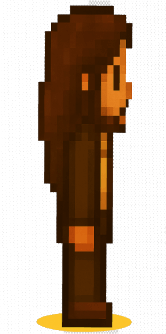
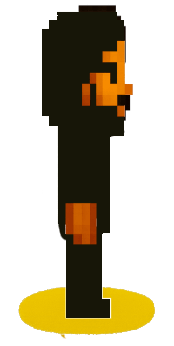
adjust chars

diff --git a/src/utils.js b/src/utils.js
@@ -38,10 +38,10 @@ export const availableCharacters = [
   { 
       id: 'show-2', 
       name: 'Show-2',
-      frontImage: 'assets/characters/persona-6-front.png',
-      backImage: 'assets/characters/persona-6-back.png',
-      leftImage: 'assets/characters/persona-6-left.png', // Usando perfil como lateral
-      rightImage: 'assets/characters/persona-6-right.png', 
+      frontImage: 'assets/characters/persona-5-front.png',
+      backImage: 'assets/characters/persona-5-back.png',
+      leftImage: 'assets/characters/persona-5-left.png', // Usando perfil como lateral
+      rightImage: 'assets/characters/persona-5-right.png', 
       color: 'grey'
   },
   { 
@@ -52,5 +52,14 @@ export const availableCharacters = [
       leftImage: 'assets/characters/persona-6-left.png', // Usando perfil como lateral
       rightImage: 'assets/characters/persona-6-right.png', 
       color: 'yellow'
+  },
+  { 
+      id: 'show-4', 
+      name: 'Show-4 ',
+      frontImage: 'assets/characters/persona-7-front.png',
+      backImage: 'assets/characters/persona-7-back.png',
+      leftImage: 'assets/characters/persona-7-left.png', // Usando perfil como lateral
+      rightImage: 'assets/characters/persona-7-right.png', 
+      color: 'pink'
   }
 ]

diff --git a/src/App.css b/src/App.css
@@ -935,19 +935,7 @@ body {
   position: absolute;
 }
 
-/* Sombra sutil para dar profundidade */
-.player-container::after {
-  content: "";
-  position: absolute;
-  left: 50%;
-  bottom: -2px;
-  width: 25px;
-  height: 8px;
-  transform: translateX(-50%);
-  background: radial-gradient(ellipse at center, rgba(0,0,0,0.3) 0%, rgba(0,0,0,0) 70%);
-  border-radius: 50%;
-  z-index: 0;
-}
+
 
 /* Partículas de poeira quando caminhando */
 .player.walking::before {
